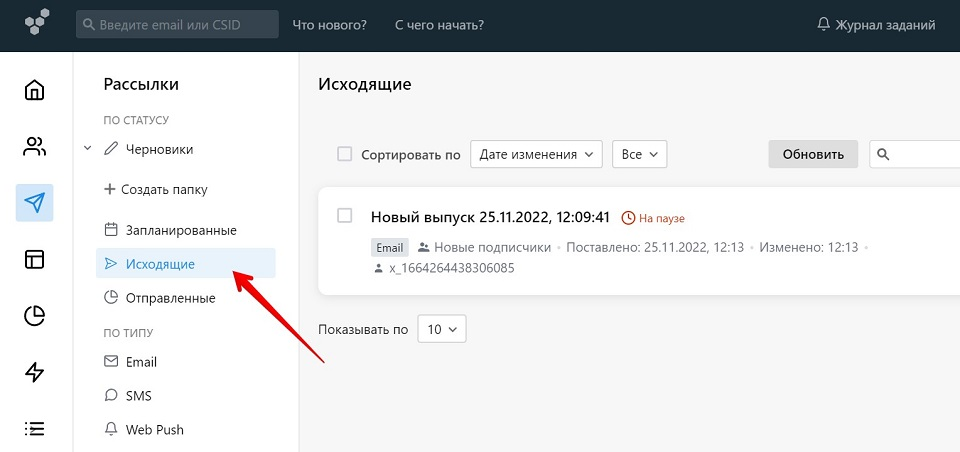
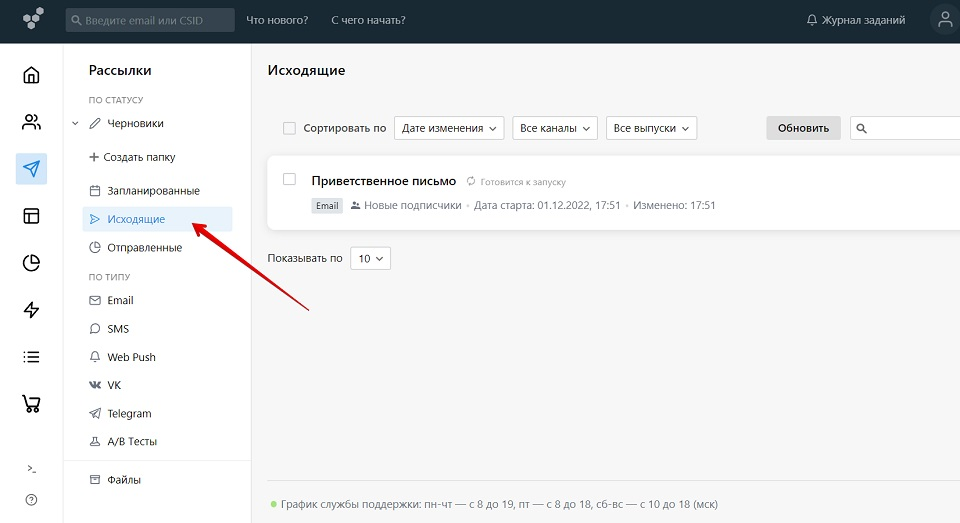
update article and screenshots

diff --git a/docs/email-campaigns/create-your-campaign/how-to-stop-emails.md b/docs/email-campaigns/create-your-campaign/how-to-stop-emails.md
@@ -2,48 +2,65 @@
 sidebar_position: 11
 ---
 
-# Как отменить или приостановить рассылку
+# Как отменить или приостановить отправку выпуска
 
-Исходящие рассылки — это выпуски на стадиях модерации, формирования и отправки. В Исходящие попадают как обычные, так и растянутые по времени выпуски.
-
-Статус, дату и&nbsp;время отправки, список контактов и&nbsp;другую подробную информацию об&nbsp;исходящих можно посмотреть в&nbsp;разделе **Рассылки &rarr; Исходящие** или в&nbsp;**Журнале заданий**.
+В Sendsay вы можете отменить или приостановить отправку выпуска в разделе **Рассылки → Исходящие**:
 
 ![Outgoing mails](/img/email-campaigns/create-your-campaign/how-to-stop-emails/outgoing-mails.jpg) <br/>
 
-Чтобы приостановить, выпустить целиком или отменить рассылку, перейдите в&nbsp;раздел **Рассылки &rarr; Исходящие**. Далее справа от&nbsp;рассылки нажмите на&nbsp;выпадающий список у&nbsp;кнопки **Отчет** и&nbsp;выберите нужное действие.
+Исходящие выпуски&nbsp;&mdash; это рассылки, готовящиеся к&nbsp;отправке. Часть писем, которые находятся в&nbsp;исходящих, могут успеть отправиться подписчикам.
+
+[Как узнать статус выпуска](#как-узнать-статус-выпуска)
+
+В&nbsp;разделе **Исходящие** выводится список по&nbsp;всем исходящим выпускам. У&nbsp;каждой рассылки указан статус, список контактов, дата и&nbsp;время отправки.
+
+Чтобы приостановить, выпустить целиком или отменить рассылку:
+
+1. Перейдите в&nbsp;раздел **Рассылки &rarr; Исходящие**.
+2. Откройте выпадающий список у&nbsp;кнопки &laquo;Отчет&raquo; и&nbsp;выберите нужное действие:
 
 ![Stop](/img/email-campaigns/create-your-campaign/how-to-stop-emails/stop.jpg) <br/>
 
-**Приостановить&nbsp;**&mdash; отправка рассылки будет приостановлена до&nbsp;тех пор, пока пользователь сам не&nbsp;возобновит отправку. После приостановки какая-то часть писем может успеть отправиться, если она уже сформировалась.
+При выборе пункта **Приостановить** отправка рассылки будет приостановлена до&nbsp;тех пор, пока вы&nbsp;не&nbsp;возобновите отправку. После приостановки какая-то часть писем может успеть отправиться, если она уже сформировалась.
 
-Если приостановить, а&nbsp;потом снова запустить растянутый по&nbsp;времени выпуск, накопленные за&nbsp;время паузы письма отправятся сразу. Оставшийся тираж писем будет отправляться с&nbsp;указанными при планировании настройками.
+Если приостановить, а&nbsp;потом снова запустить отправленный по&nbsp;частям выпуск, накопленные за&nbsp;время паузы письма отправятся сразу. Оставшийся тираж писем будет отправляться с&nbsp;указанными при планировании настройками.
 
-**Выпустить целиком&nbsp;**&mdash; отправка всего тиража сразу, если он&nbsp;был растянут по&nbsp;времени.
+При выборе пункта **Выпустить целиком** отправится весь тираж сразу, если он&nbsp;был растянут по&nbsp;частям.
 
-**Отменить&nbsp;**&mdash; отправка выпуска будет остановлена, некоторая часть могла успеть отправиться. Возобновить рассылку при отмене невозможно.
+При выборе пункта **Отменить** отправка выпуска будет остановлена. Возобновить рассылку при отмене невозможно.
 
-## Что еще можно сделать в&nbsp;разделе Исходящие
+## Как работать с&nbsp;исходящими выпусками
 
-### Узнать статус выпуска
+### Как узнать статус выпуска
+
+Около названия каждого выпуска в&nbsp;разделе **Исходящие** можно увидеть статус:
 
 ![Statuses](/img/email-campaigns/create-your-campaign/how-to-stop-emails/statuses.jpg) <br/>
 
-Основные статусы в&nbsp;**Исходящих&nbsp;**&mdash; **На&nbsp;модерации, Готовится к&nbsp;запуску, Отправляется, На&nbsp;паузе**.
+Основные статусы в&nbsp;разделе **Исходящие**:
 
-**На&nbsp;модерации&nbsp;**&mdash; выпуск и&nbsp;список контактов находятся на&nbsp;ручной проверке для того, чтобы избежать рассылки спама. На&nbsp;модерацию попадают выпуски, которые не&nbsp;прошли автоматическую проверку перед отправкой.
+- &laquo;На&nbsp;модерации&raquo; означает, что выпуск и&nbsp;список контактов находятся на&nbsp;ручной проверке для того, чтобы избежать рассылки спама.
 
-[Почему выпуск попал на модерацию?](/docs/faq/moderation.md) <br/>
+  [Почему выпуск попал на модерацию?](/docs/faq/moderation.md) <br/>
 
-**Готовится к&nbsp;запуску&nbsp;**&mdash; задание на&nbsp;рассылку принято и&nbsp;поставлено в&nbsp;очередь на&nbsp;отправку.
+- &laquo;Готовится к&nbsp;запуску&raquo; говорит о&nbsp;том, что выпуск находится в&nbsp;очереди на&nbsp;отправку;
 
-**Отправляется&nbsp;**&mdash; рассылка прошла модерацию, передана на&nbsp;отправляющий сервер и&nbsp;письма уже начали отправляться. Пользователю становится доступен отчет по&nbsp;выпуску, данные в&nbsp;котором собираются по&nbsp;мере доставки сообщений.
+- &laquo;Отправляется&raquo; значит, что выпуск прошел модерацию, передан на&nbsp;отправляющий сервер и&nbsp;письма уже начали отправляться;
 
-**На&nbsp;паузе&nbsp;**&mdash; рассылка остановлена по&nbsp;инициативе пользователя или из-за подозрения на&nbsp;спам.
+- &laquo;На&nbsp;паузе&raquo;&nbsp;&mdash; отправка выпуска приостановлена по&nbsp;инициативе пользователя или из-за подозрений на&nbsp;спам.
 
-### Получить подробности о рассылке
+### Как узнать подробности о&nbsp;выпуске
 
-Это пригодится, чтобы узнать время отправки или изменения рассылки, аудиторию, тему и&nbsp;другие детали. Если во&nbsp;время отправки рассылки произошли какие-то ошибки, их&nbsp;можно увидеть во&nbsp;вкладке **Ответ сервера**.
+Детали пригодятся, чтобы узнать время отправки, аудиторию, тему и&nbsp;другие подробности. Для этого:
+
+1. Перейдите в&nbsp;раздел **Рассылки &rarr; Исходящие** и&nbsp;выберите нужный выпуск.
+
+2. Выберите пункт **Детали** в&nbsp;раскрывающемся списке кнопки &laquo;Отчет&raquo;.
+
+В&nbsp;открывшемся окне есть две вкладки&nbsp;&mdash; **Детали** и&nbsp;**Ответ сервера**. В&nbsp;первом случае выводится актуальная информация по&nbsp;рассылке:
 
 ![Details](/img/email-campaigns/create-your-campaign/how-to-stop-emails/details.jpg) <br/>
+
+Если во&nbsp;время отправки выпуска произошли какие-то ошибки, их&nbsp;можно увидеть во&nbsp;вкладке **Ответ сервера**:
 
 ![Server response](/img/email-campaigns/create-your-campaign/how-to-stop-emails/server-response.jpg) <br/>
